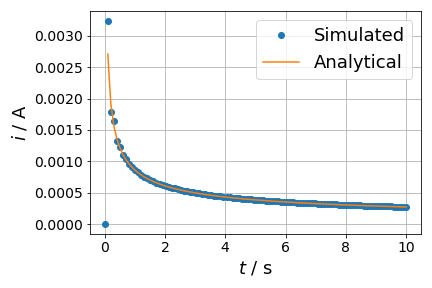
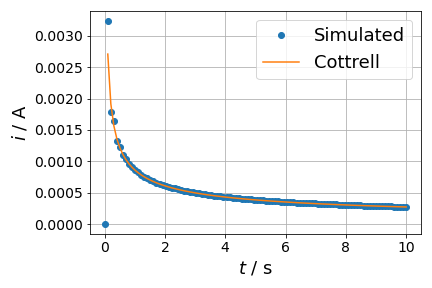
Figs for wiki

Changed region(s): [[0.7222, 0.1875, 0.9329, 0.25]]

diff --git a/Validation/Cottrell.py b/Validation/Cottrell.py
@@ -55,7 +55,7 @@ iCot = n*F*A*CRb*np.sqrt(DR)/np.sqrt(np.pi*t[1:])
 fig1 = plt.figure(1)
 ax = plt.subplot(111)
 ax.plot(t, i, 'o', label = "Simulated")
-ax.plot(t[1:], iCot, label ="Analytical")
+ax.plot(t[1:], iCot, label ="Cottrell")
 ax.legend(fontsize = 18)
 plt.xlabel("$t$ / s", fontsize = 18)
 plt.ylabel("$i$ / A", fontsize = 18)
@@ -87,11 +87,11 @@ plt.xlabel("$t$ / s", fontsize = 18)
 plt.ylabel("$E$ / V", fontsize = 18)
 plot.plotFormat()
 
-save = 0
+save = 1
 if save:
     fig1.savefig("it.png")
     fig2.savefig("error.png")
-    fig3.savefig("xCR.png")
-    fig4.savefig("xCO.png")
-    fig5.savefig("tE.png")
+    #fig3.savefig("xCR.png")
+    #fig4.savefig("xCO.png")
+    #fig5.savefig("tE.png")
 
